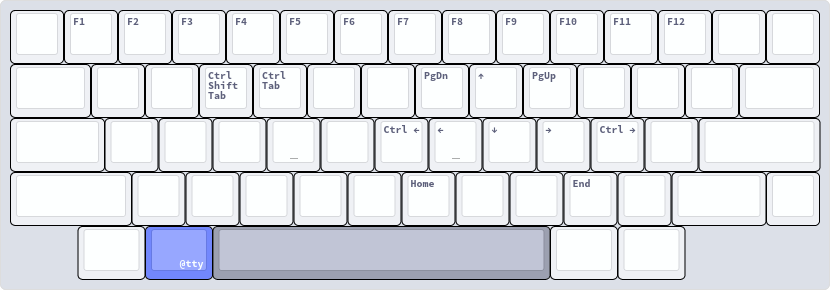
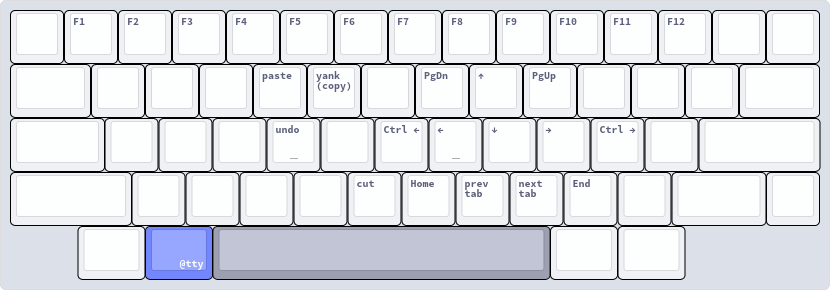
update kanata config

diff --git a/notes/keyboard.md b/notes/keyboard.md
@@ -4,11 +4,11 @@
 
 <!-- toc-start -->
 
-- [Spec](#Spec)
+- [Spec](<#Spec>)
 - [Programmable Layers {kanata}](<#Programmable Layers {kanata}>)
-  - [Introduction](#Introduction)
-  - [Legend](#Legend)
-  - [General](#General)
+  - [Introduction](<#Introduction>)
+  - [Legend](<#Legend>)
+  - [General](<#General>)
   - [Base Layer {@base}](<#Base Layer {@base}>)
   - [Navigation Layer {@navigation}](<#Navigation Layer {@navigation}>)
   - [Tmux Layer {@tmux}](<#Tmux Layer {@tmux}>)
@@ -141,8 +141,13 @@ Define base layer (should be first defined layer in configuration file)
 (deflayermap (navigation)
   lalt @tty
 
-  e C-S-tab ;; previous tab
-  r C-tab ;; next tab
+  m C-S-tab ;; previous tab
+  , C-tab ;; next tab
+
+  r C-. ;; paste
+  t C-i ;; yank/copy
+  f C-/ ;; undo
+  b C-b ;; cut
 
   u pgdn
   o pgup
@@ -186,9 +191,9 @@ Define base layer (should be first defined layer in configuration file)
   spc @tty
   lsft @tmux-movement
 
-  w (macro $tmux-leader i) ;; create new window
-  e (macro $tmux-leader C-r) ;; focus previous window
-  r (macro $tmux-leader C-l) ;; focus next window
+  n (macro $tmux-leader i) ;; create new window
+  m (macro $tmux-leader C-r) ;; focus previous window
+  , (macro $tmux-leader C-l) ;; focus next window
 
   u (macro $tmux-leader S-q) ;; split pane vertical
   o (macro $tmux-leader S-5) ;; split pane horizontal
@@ -214,8 +219,8 @@ Define base layer (should be first defined layer in configuration file)
   j (macro $tmux-leader S--) ;; move pane left
   l (macro $tmux-leader S-=) ;; move pane right
 
-  e (macro $tmux-leader C-S-r) ;; move window left
-  r (macro $tmux-leader C-S-l) ;; move window right
+  m (macro $tmux-leader C-S-r) ;; move window left
+  , (macro $tmux-leader C-S-l) ;; move window right
 )
 ```
 
